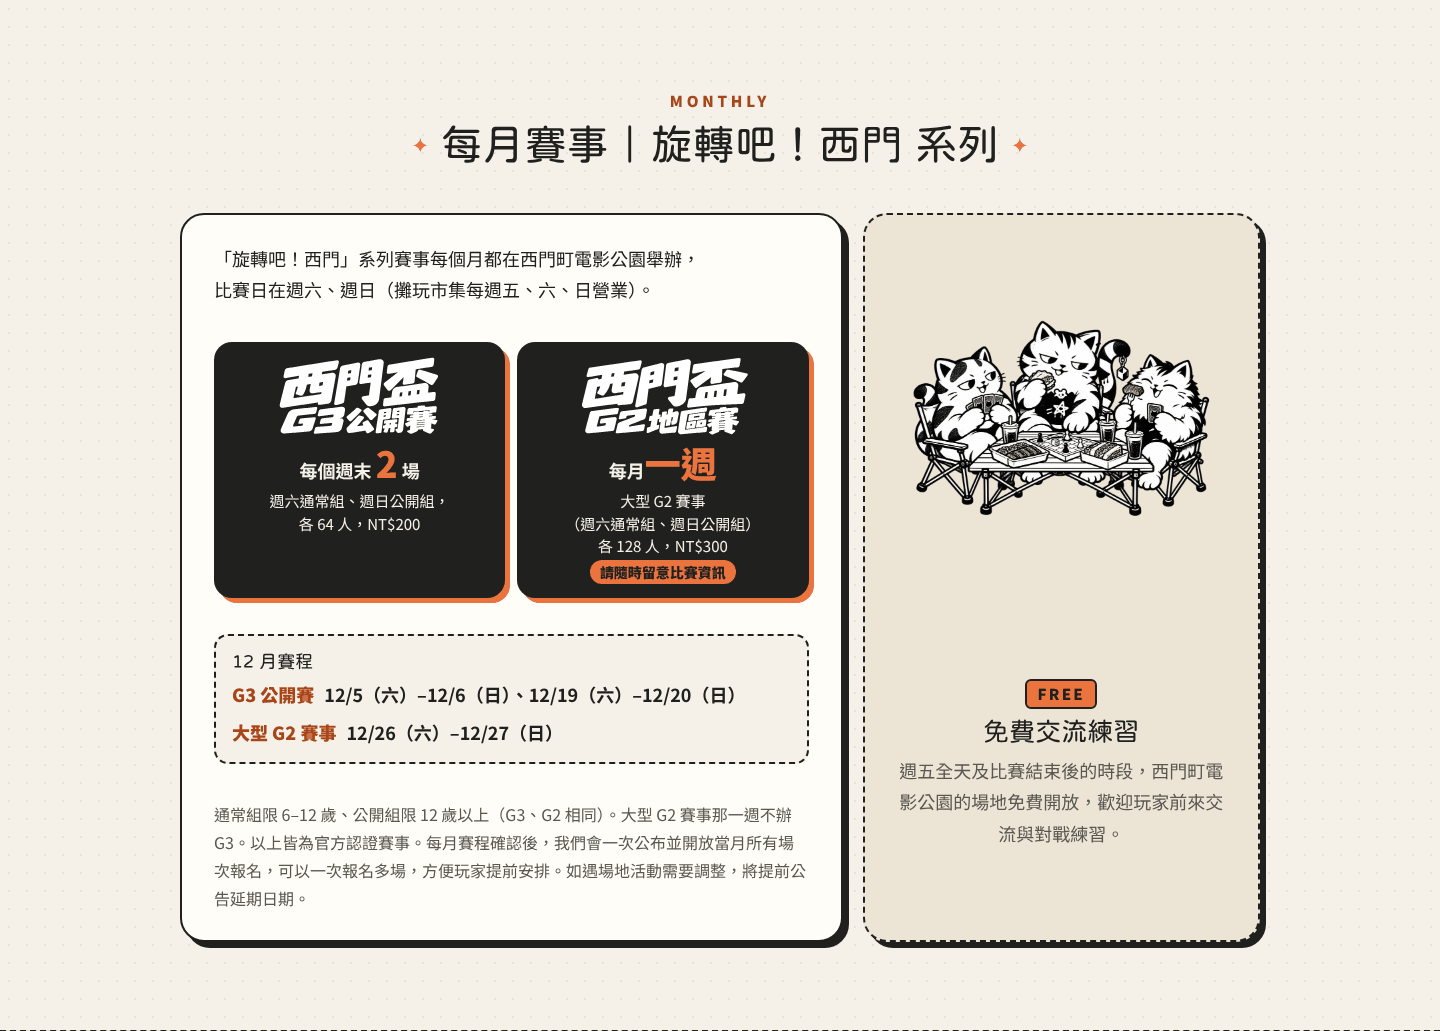
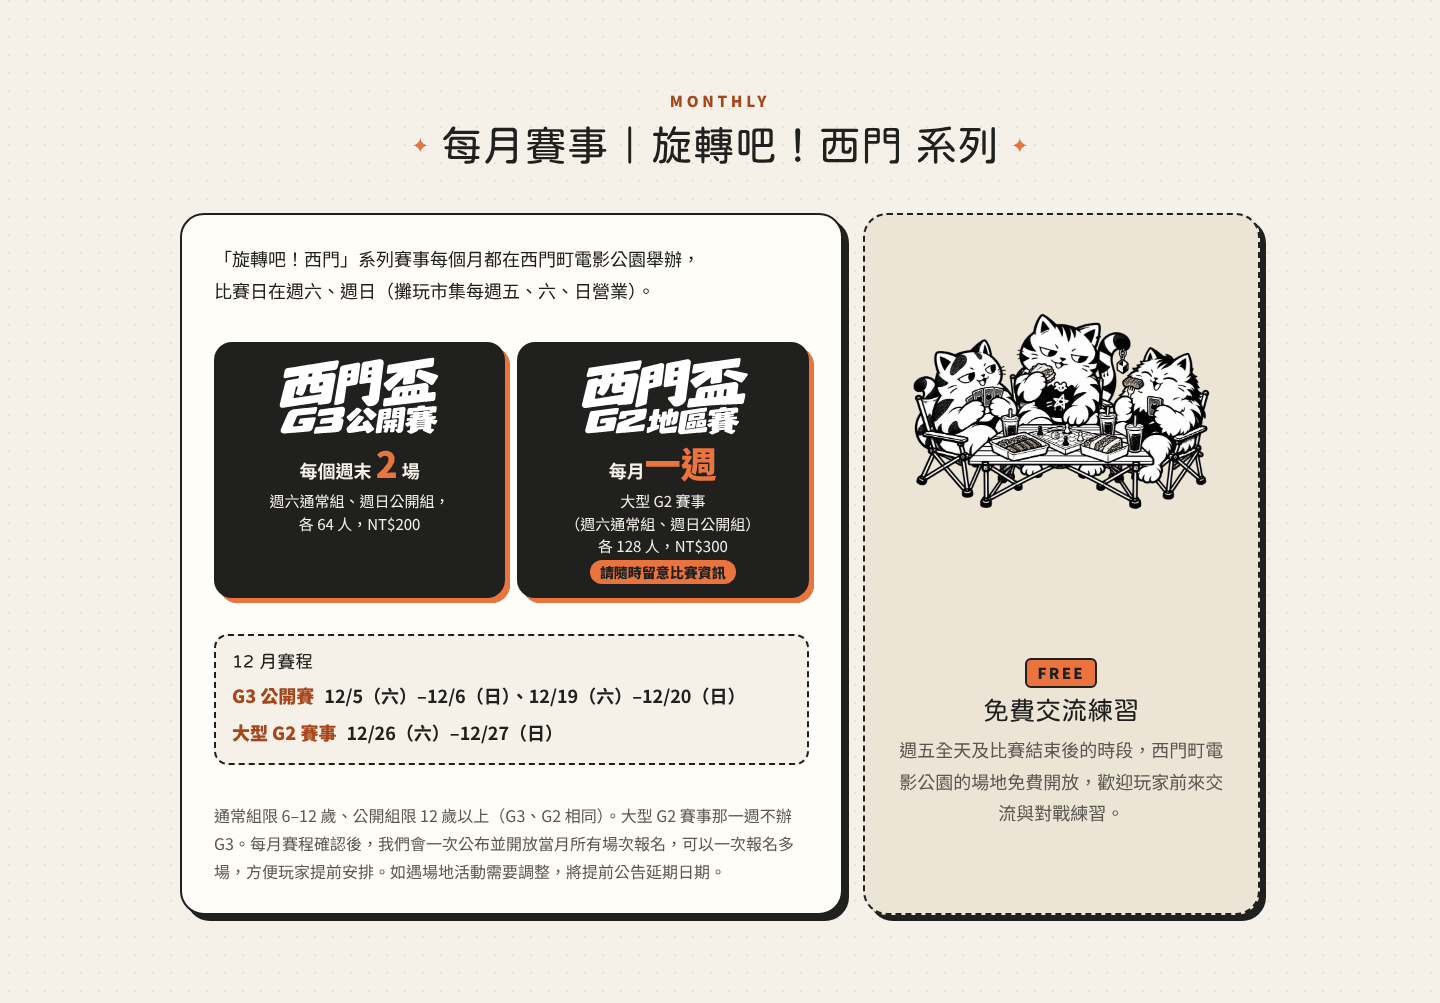
網站刪除「官方認證」字樣、Funbox Toys 正式代理商品限制與協辦單位
首頁：
- 比賽橫幅刪除「官方認證賽事」標籤與「協辦：麗嬰國際、Funbox Toys」
- 招商區介紹句改「戰鬥陀螺賽事」；刪除「官方認證」卡片，卡片改為兩欄

/cup/：
- meta、og、twitter 描述拿掉「G3 官方認證賽事」
- 首屏刪除「官方認證賽事」標籤
- 參賽規則與 FAQ 刪除 Funbox Toys 正式代理商品限制
- 每月賽程說明刪除「以上皆為官方認證賽事。」
- 主辦與協辦區刪除協辦一列，標題改「主辦與執行」
- og-cup.png 重新產生，拿掉「官方認證賽事」標籤

更新相關截圖

Claude-Session: https://claude.ai/code/session_012dQHuckgmktwtxDEBvdD1o

diff --git a/cup/index.html b/cup/index.html
@@ -5,7 +5,7 @@
   <meta name="viewport" content="width=device-width, initial-scale=1">
 
   <title>旋轉吧！西門｜西門盃 G3 公開賽 戰鬥陀螺 12/5（六）–12/6（日）｜攤玩市集</title>
-  <meta name="description" content="旋轉吧！西門｜西門盃 G3 公開賽（G3 官方認證賽事），2026/12/5（六）–12/6（日）在西門町電影公園舉行。週六通常組（6–12 歲）、週日公開組（12 歲以上），64 人，報名費每人 NT$200，觀賽免費。報名即將開放。每個週末舉辦 G3、每月一週大型 G2 賽事。">
+  <meta name="description" content="旋轉吧！西門｜西門盃 G3 公開賽，2026/12/5（六）–12/6（日）在西門町電影公園舉行。週六通常組（6–12 歲）、週日公開組（12 歲以上），64 人，報名費每人 NT$200，觀賽免費。報名即將開放。每個週末舉辦 G3、每月一週大型 G2 賽事。">
   <meta name="theme-color" content="#F5F1E8">
   <link rel="canonical" href="https://tanwanmarket.com/cup/">
 
@@ -14,7 +14,7 @@
   <meta property="og:locale" content="zh_TW">
   <meta property="og:site_name" content="攤玩市集">
   <meta property="og:title" content="旋轉吧！西門｜西門盃 G3 公開賽 戰鬥陀螺">
-  <meta property="og:description" content="2026/12/5（六）–12/6（日）西門町電影公園｜G3 官方認證賽事，週六通常組、週日公開組各 64 人，觀賽免費。報名即將開放。">
+  <meta property="og:description" content="2026/12/5（六）–12/6（日）西門町電影公園｜週六通常組、週日公開組各 64 人，觀賽免費。報名即將開放。">
   <meta property="og:url" content="https://tanwanmarket.com/cup/">
   <meta property="og:image" content="https://tanwanmarket.com/assets/cup/og-cup.png">
   <meta property="og:image:width" content="1200">
@@ -22,7 +22,7 @@
   <meta property="og:image:alt" content="旋轉吧！西門字標、西門盃 G3 公開賽字卡與發射戰鬥陀螺的攤玩貓">
   <meta name="twitter:card" content="summary_large_image">
   <meta name="twitter:title" content="旋轉吧！西門｜西門盃 G3 公開賽 戰鬥陀螺">
-  <meta name="twitter:description" content="2026/12/5（六）–12/6（日）西門町電影公園｜G3 官方認證賽事，報名即將開放。">
+  <meta name="twitter:description" content="2026/12/5（六）–12/6（日）西門町電影公園｜報名即將開放。">
   <meta name="twitter:image" content="https://tanwanmarket.com/assets/cup/og-cup.png">
 
   <link rel="icon" type="image/png" href="../assets/favicon.png">
@@ -76,7 +76,6 @@
               <img src="../assets/cup/ximen-cup-g3-black.webp" alt="西門盃 G3 公開賽" width="1200" height="400" fetchpriority="high">
             </picture>
           </h1>
-          <p class="cup-badge">官方認證賽事</p>
           <p class="cup-sub">戰鬥陀螺 G3、G2 公開賽</p>
 
           <ul class="hero-facts">
@@ -211,7 +210,6 @@
         <div class="cup-rules">
           <ul class="cup-rule-list">
             <li>採用官方 G3 規則</li>
-            <li>限使用 Funbox Toys 正式代理之「戰鬥陀螺X」系列商品</li>
             <li>禁止改裝及盜版商品</li>
             <li>選手自備合規陀螺、發射器及必要配備</li>
             <li>詳細賽制、組別與獎品於報名開放時公布，以官方公告為準</li>
@@ -276,7 +274,7 @@
                 <li><span class="cup-month-type">大型 G2 賽事</span><span class="nobr">12/26（六）–12/27（日）</span></li>
               </ul>
             </div>
-            <p class="cup-monthly-note">通常組<span class="nobr">限 6–12 歲</span>、公開組<span class="nobr">限 12 歲以上</span>（G3、G2 相同）。大型 G2 賽事那一週不辦 G3。以上皆為官方認證賽事。每月賽程確認後，我們會一次公布並開放當月所有場次報名，可以一次報名多場，方便玩家提前安排。如遇場地活動需要調整，將提前公告延期日期。</p>
+            <p class="cup-monthly-note">通常組<span class="nobr">限 6–12 歲</span>、公開組<span class="nobr">限 12 歲以上</span>（G3、G2 相同）。大型 G2 賽事那一週不辦 G3。每月賽程確認後，我們會一次公布並開放當月所有場次報名，可以一次報名多場，方便玩家提前安排。如遇場地活動需要調整，將提前公告延期日期。</p>
           </article>
           <article class="cup-card cup-practice">
             <img class="cup-card-cat cup-practice-art" src="../assets/cup/cat-friends-camp.webp" alt="攤玩貓和朋友在露營桌邊吃東西、玩桌遊" width="900" height="675" loading="lazy">
@@ -305,7 +303,7 @@
           </details>
           <details class="faq">
             <summary>要帶什麼？</summary>
-            <div class="faq-body"><p>QR 電子票券，以及自備的合規陀螺、發射器及必要配備。限使用 Funbox Toys 正式代理之「戰鬥陀螺X」系列商品，禁止改裝及盜版商品。</p></div>
+            <div class="faq-body"><p>QR 電子票券，以及自備的合規陀螺、發射器及必要配備。禁止改裝及盜版商品。</p></div>
           </details>
           <details class="faq">
             <summary>觀賽要不要錢？</summary>
@@ -327,14 +325,13 @@
       </div>
     </section>
 
-    <!-- ===================== 10. 主辦與協辦 ===================== -->
+    <!-- ===================== 10. 主辦與執行 ===================== -->
     <section class="section cup-org" aria-labelledby="org-title">
       <div class="container">
-        <h2 id="org-title" class="sr-only">主辦與協辦</h2>
+        <h2 id="org-title" class="sr-only">主辦與執行</h2>
         <dl class="cup-org-list">
           <div><dt>主辦</dt><dd>候青藝團</dd></div>
           <div><dt>執行</dt><dd>候青藝團／攤玩製作</dd></div>
-          <div><dt>協辦</dt><dd>麗嬰國際、Funbox Toys</dd></div>
         </dl>
       </div>
     </section>

diff --git a/index.html b/index.html
@@ -95,7 +95,6 @@
       <div class="container">
         <a class="cup-promo-card" href="cup/">
           <div class="cup-promo-text">
-            <p class="cup-badge">官方認證賽事</p>
             <p class="cup-promo-title">
               <img class="cup-promo-event" src="assets/cup/spin-ximen-white.webp" alt="旋轉吧！西門" width="1200" height="346" loading="lazy">
               <picture>
@@ -107,7 +106,6 @@
               <p class="cup-promo-meta"><span>戰鬥陀螺 G3、G2 公開賽</span><span class="cup-promo-date"><span class="nobr">12/5（六）</span><span class="nobr">–12/6（日）</span></span></p>
               <span class="cup-promo-cta">看賽事資訊 →</span>
               <p class="cup-promo-monthly"><span class="nobr">每個週末都有 G3 公開賽，</span><span class="nobr">每月一週大型 G2 賽事</span></p>
-              <p class="cup-promo-co">協辦：麗嬰國際、Funbox Toys</p>
             </div>
           </div>
           <img class="cup-promo-cat" src="assets/cup/cat-low-launch.webp" alt="" width="800" height="800" loading="lazy">
@@ -214,7 +212,7 @@
         </header>
 
         <div class="vendors-why-intro">
-          <p class="lead">攤玩市集每個週末舉辦「旋轉吧！西門」戰鬥陀螺官方認證賽事，週六、週日都有 G3 公開賽或 G2 地區賽，週五開放免費練習，玩家和陪同的家人整天都在現場，逛攤、用餐、買配件都在市集裡完成。</p>
+          <p class="lead">攤玩市集每個週末舉辦「旋轉吧！西門」戰鬥陀螺賽事，週六、週日都有 G3 公開賽或 G2 地區賽，週五開放免費練習，玩家和陪同的家人整天都在現場，逛攤、用餐、買配件都在市集裡完成。</p>
           <img class="vendors-why-cat" src="assets/cup/cat-watch.webp" alt="" width="800" height="800" loading="lazy">
         </div>
 
@@ -226,10 +224,6 @@
           <li class="vendors-why-card">
             <strong>每月 G2 地區賽</strong>
             <span>每月一週大型 G2 賽事，週六通常組、週日公開組各 128 位選手，<span class="nobr">不是一次性的活動</span></span>
-          </li>
-          <li class="vendors-why-card">
-            <strong>官方認證</strong>
-            <span>協辦單位是麗嬰國際和 Funbox Toys</span>
           </li>
         </ul>
 

diff --git a/styles.css b/styles.css
@@ -387,7 +387,7 @@ a { color: inherit; }
 @media (min-width: 960px) {
   .vendors-why-intro { grid-template-columns: 1fr 220px; gap: 40px; }
   .vendors-why-cat { width: 100%; }
-  .vendors-why-cards { grid-template-columns: repeat(3, 1fr); align-items: stretch; gap: 20px; }
+  .vendors-why-cards { grid-template-columns: repeat(2, 1fr); align-items: stretch; gap: 20px; }
 }
 
 /* ---------- sections ---------- */
